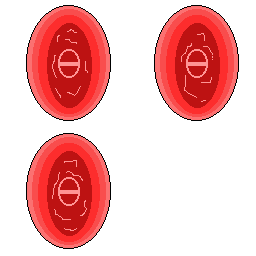
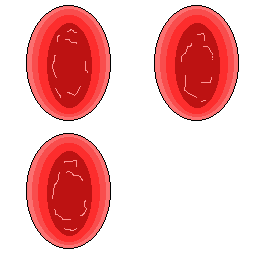
Got rid of some old ones for now

Changed region(s): [[0.7188, 0.1875, 0.8125, 0.3125], [0.2188, 0.6875, 0.3125, 0.8125], [0.2188, 0.1875, 0.3125, 0.3125]]

diff --git a/Gabriel.c b/Gabriel.c
@@ -32,13 +32,13 @@ void init_all_images(void)
 	grimReaperImageArray[1] = CP_Image_Load("./Assets/GrimReaper2.png");
 	grimReaperImageArray[2] = CP_Image_Load("./Assets/GrimReaper3.png");
 
-	tempStar = CP_Image_Load("./Assets/Star1.png");
-	tempCircle = CP_Image_Load("./Assets/Circle1.png");
-	tempPercentage = CP_Image_Load("./Assets/Percentage1.png");
+	tempStar = CP_Image_Load("./Assets/BasicGhost1.png");
+	tempCircle = CP_Image_Load("./Assets/FatGhost1.png");
+	tempPercentage = CP_Image_Load("./Assets/GrimReaper1.png");
 	tempBullet = CP_Image_Load("./Assets/BasicTurretBullet.png");
 	tempBulletRadius = CP_Image_Load("./Assets/BulletRadius.png");
 
-	bluePortalSpriteSheet = CP_Image_Load("./Assets/SummationPortal.png"); 
+	bluePortalSpriteSheet = CP_Image_Load("./Assets/FriendlyPortal.png"); 
 	redPortalSpriteSheet = CP_Image_Load("./Assets/EnemyPortal.png");  
 	basicTurretSpriteSheet = CP_Image_Load("./Assets/BasicTurret.png");
 	homingMissleTurretSpriteSheet = CP_Image_Load("./Assets/HomingMissleTurret.png");
